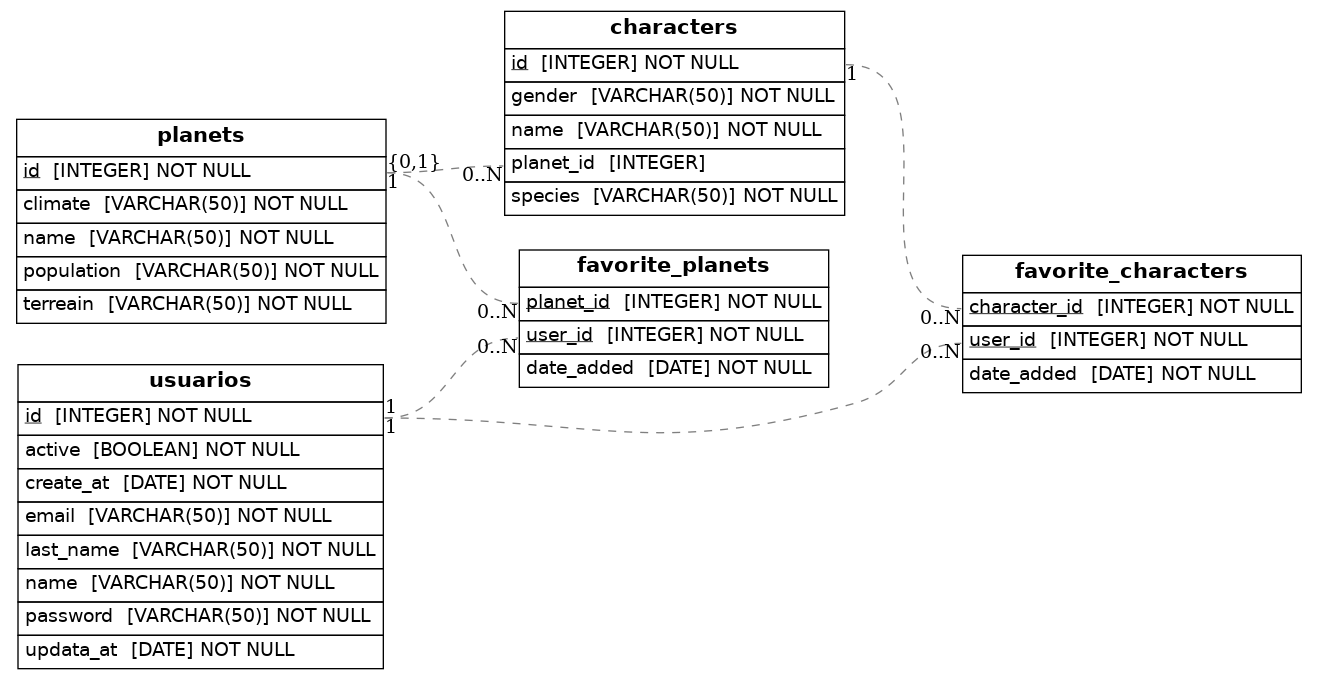
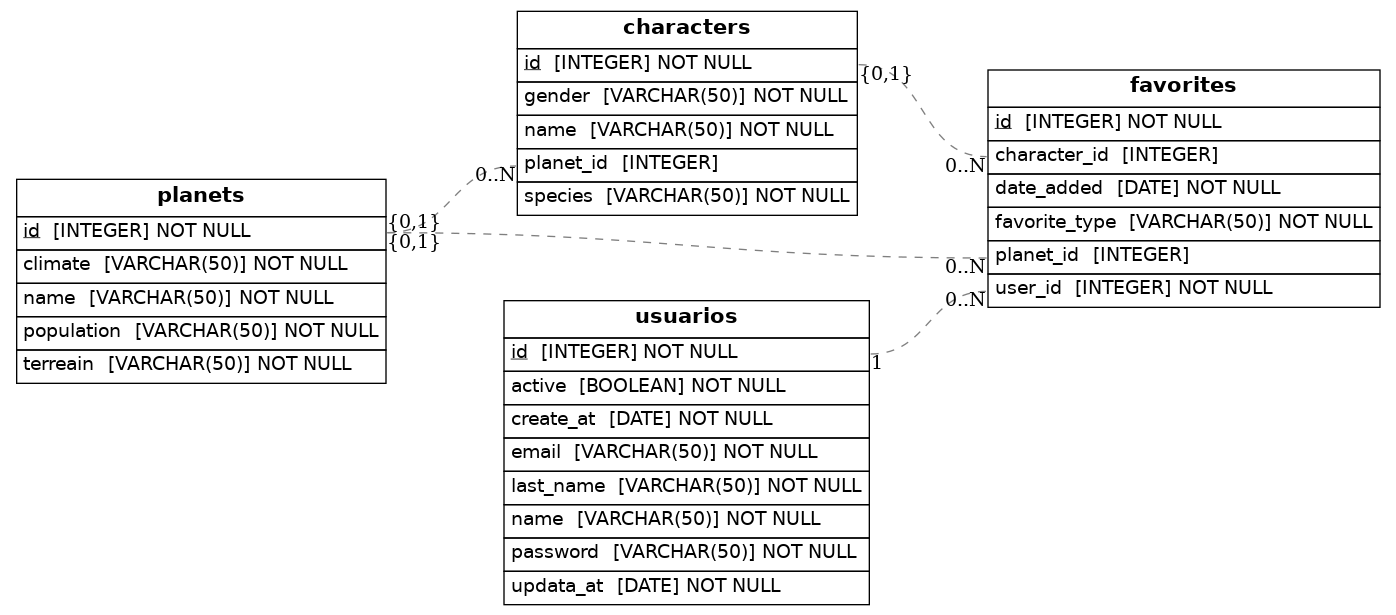
varios diagramas con sus relaciones

Changed region(s): [[0.0, 0.0, 0.9962, 0.9886]]

diff --git a/src/models.py b/src/models.py
@@ -21,6 +21,14 @@ class Usuario(Base):
     create_at = Column(Date, nullable=False)
     active = Column(Boolean, nullable=False)
 
+    # # Relacion con los elemos marcados como favoritos
+    favorites = relationship("Favorites",backref="user")
+    # # Relacion con personajes favoritos
+    # Favorite_characters = relationship("Favorite_characters", backref="user")
+
+    # # Relacion con planetas favoritos
+    # Favorite_planets = relationship("Favorite_planets", backref="user")
+
 # Tabla Planets
 class Planets(Base):
     __tablename__= 'planets'
@@ -31,9 +39,14 @@ class Planets(Base):
     terreain = Column(String(50), nullable=False)
     population = Column(String(50), nullable=False)
 
-    #relacion con la tabla characters
+    # Relacion con la tabla characters
     Characters = relationship("characters",backref="planet")
 
+    # # Relación con vehículos favoritos
+    favorites = relationship("Favorites", backref="planet")
+
+    #  # Relacion con los planetas marcados como favoritos
+    # Favorite_planets = relationship("Favorite_planets", backref="planet")
 # Tabla Characters
 class Characters(Base):
     __tablename__ = 'characters'
@@ -44,21 +57,48 @@ class Characters(Base):
     gender = Column(String(50), nullable=False)
     planet_id = Column(Integer, ForeignKey('planets.id'))
 
+    #   # Relación con vehículos favoritos
+    favorites = relationship("Favorites", backref="character")
+
+    # Relacion con los personaes marcados como favoritos
+    # Favorite_characters = relationship("Favorite_characters", backref="character")
+
+# Tabla Vehicles
+class Vehicles(Base):
+    __tablename__ = 'vehicles'
+    id = Column(Integer, primary_key=True)
+    name = Column(String(50), nullable=False)
+    model = Column(String(50), nullable=False)
+    manufacturer = Column(String(50), nullable=False)
+
+    # Relación con la tabla favorites
+    favorites = relationship("Favorites", backref="vehicle")
+
+# Tabla Favorites
+class Favorites(Base):
+    __tablename__ = 'favorites'
+    id = Column(Integer, primary_key=True)
+    user_id = Column(Integer, ForeignKey('usuarios.id'), nullable=False)
+    planet_id = Column(Integer, ForeignKey('planets.id'), nullable=True)
+    character_id = Column(Integer, ForeignKey('characters.id'), nullable=True)
+    vehicle_id = Column(Integer, ForeignKey('vehicles.id'), nullable=True)
+    favorite_type = Column(String(50), nullable=False)  # 'planet', 'character' o 'vehicles' 
+    date_added = Column(Date, nullable=False)
 # Tabla Favorite_characters
-class Favorite_characters(Base):
-    __tablename__ = 'favorite_characters'
+# class Favorite_characters(Base):
+#     __tablename__ = 'favorite_characters'
 
-    user_id = Column(Integer, ForeignKey('usuarios.id'), primary_key=True)
-    character_id = Column(Integer, ForeignKey('characters.id'), primary_key=True)
-    date_added = Column(Date, nullable=False)
+#     user_id = Column(Integer, ForeignKey('usuarios.id'), primary_key=True)
+#     character_id = Column(Integer, ForeignKey('characters.id'), primary_key=True)
+#     date_added = Column(Date, nullable=False)
 
-# Tabla Favorite_planets
-class Favorite_planets(Base):
-    __tablename__ = 'favorite_planets'
+# # Tabla Favorite_planets
+# class Favorite_planets(Base):
+#     __tablename__ = 'favorite_planets'
 
-    user_id = Column(Integer, ForeignKey('usuarios.id'), primary_key=True)
-    planet_id = Column(Integer, ForeignKey('planets.id'), primary_key=True)
-    date_added = Column(Date, nullable=False)
+#     user_id = Column(Integer, ForeignKey('usuarios.id'), primary_key=True)
+#     planet_id = Column(Integer, ForeignKey('planets.id'), primary_key=True)
+#     date_added = Column(Date, nullable=False)
 
 ## Draw from SQLAlchemy base
 render_er(Base, 'diagram.png')
